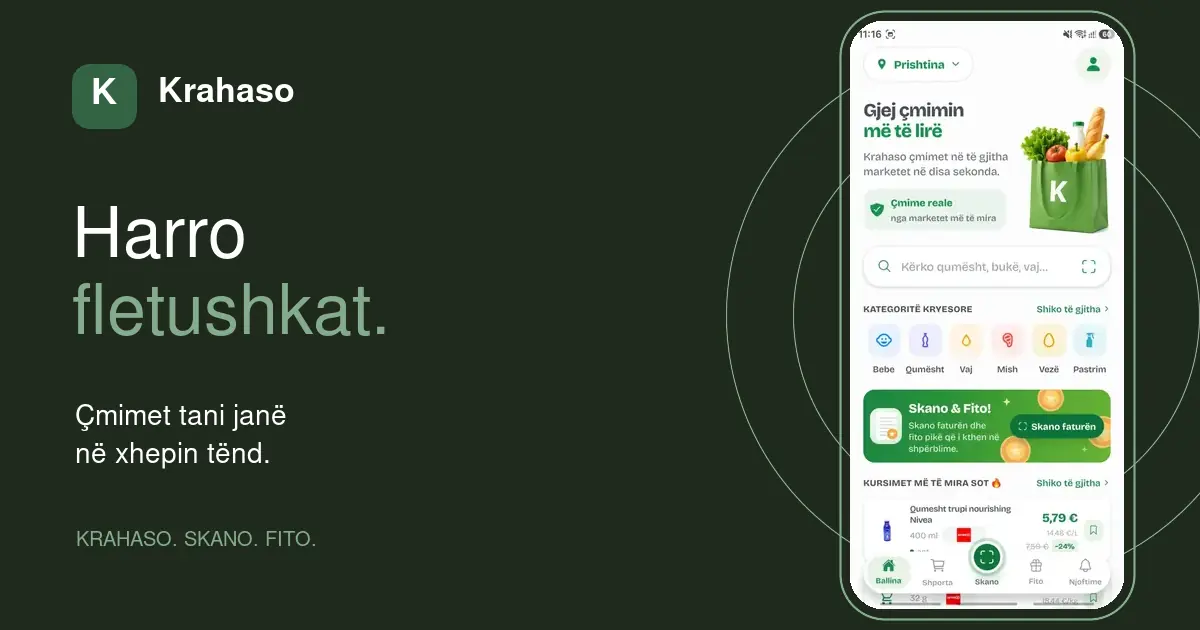
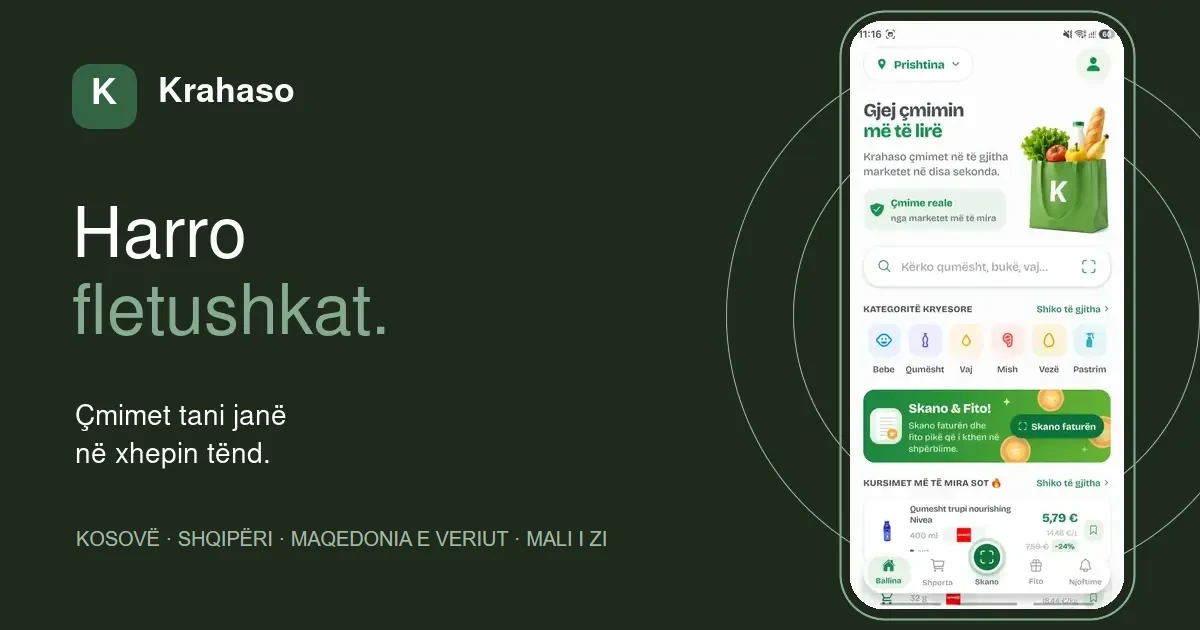
link preview: all four countries, not just Kosovo
Creators in Albania and North Macedonia saw "Krahaso çmimet në Kosovë"
on every krahaso.app link we sent them. The title and description now
name Kosovo, Albania, North Macedonia and Montenegro, and the share
card's bottom line reads the four countries in place of "KRAHASO.
SKANO. FITO." (same font, size and colour; nothing else in the image
changed). ?v=2 on the image URL makes the apps fetch the new card.

Changed region(s): [[0.0617, 0.8444, 0.5242, 0.8746]]

diff --git a/index.html b/index.html
@@ -6,7 +6,7 @@
     <meta name="theme-color" content="#063d24" />
     <meta
       name="description"
-      content="Skano ose kërko produktin dhe shiko çmimet që kemi nga marketet e Kosovës."
+      content="Skano ose kërko produktin dhe shiko çmimet që kemi nga marketet në Kosovë, Shqipëri, Maqedoninë e Veriut dhe Mal të Zi."
     />
     <link rel="canonical" href="https://krahaso.app/" />
     <link rel="preload" as="image" href="/app/krahaso-home.webp" type="image/webp" fetchpriority="high" />
@@ -16,18 +16,18 @@
     <meta property="og:locale" content="sq_XK" />
     <meta property="og:type" content="website" />
     <meta property="og:site_name" content="Krahaso" />
-    <meta property="og:title" content="Krahaso çmimet në Kosovë | Krahaso" />
-    <meta property="og:description" content="Skano ose kërko produktin dhe shiko çmimet që kemi nga marketet e Kosovës." />
+    <meta property="og:title" content="Krahaso çmimet në Kosovë, Shqipëri, Maqedoninë e Veriut dhe Mal të Zi" />
+    <meta property="og:description" content="Skano ose kërko produktin dhe shiko çmimet që kemi nga marketet në Kosovë, Shqipëri, Maqedoninë e Veriut dhe Mal të Zi." />
     <meta property="og:url" content="https://krahaso.app/" />
-    <meta property="og:image" content="https://krahaso.app/krahaso-social.webp" />
+    <meta property="og:image" content="https://krahaso.app/krahaso-social.webp?v=2" />
     <meta property="og:image:width" content="1200" />
     <meta property="og:image:height" content="630" />
     <meta property="og:image:alt" content="Krahaso para se të blesh" />
 
     <meta name="twitter:card" content="summary_large_image" />
-    <meta name="twitter:title" content="Krahaso çmimet në Kosovë | Krahaso" />
-    <meta name="twitter:description" content="Skano ose kërko produktin dhe shiko çmimet që kemi nga marketet e Kosovës." />
-    <meta name="twitter:image" content="https://krahaso.app/krahaso-social.webp" />
+    <meta name="twitter:title" content="Krahaso çmimet në Kosovë, Shqipëri, Maqedoninë e Veriut dhe Mal të Zi" />
+    <meta name="twitter:description" content="Skano ose kërko produktin dhe shiko çmimet që kemi nga marketet në Kosovë, Shqipëri, Maqedoninë e Veriut dhe Mal të Zi." />
+    <meta name="twitter:image" content="https://krahaso.app/krahaso-social.webp?v=2" />
 
     <script type="application/ld+json">
       {
@@ -82,7 +82,7 @@
       }
     </script>
 
-    <title>Krahaso çmimet në Kosovë | Krahaso</title>
+    <title>Krahaso çmimet në Kosovë, Shqipëri, Maqedoninë e Veriut dhe Mal të Zi</title>
   </head>
   <body>
     <div id="root"></div>
